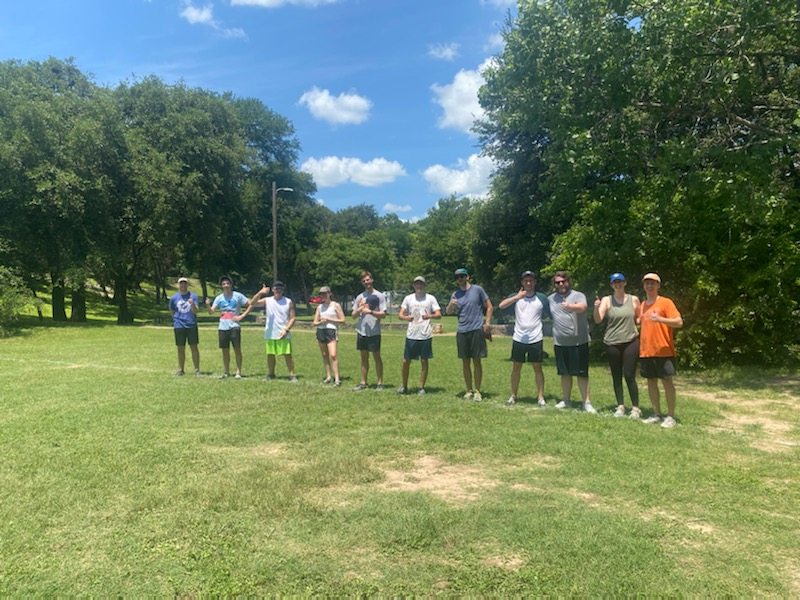
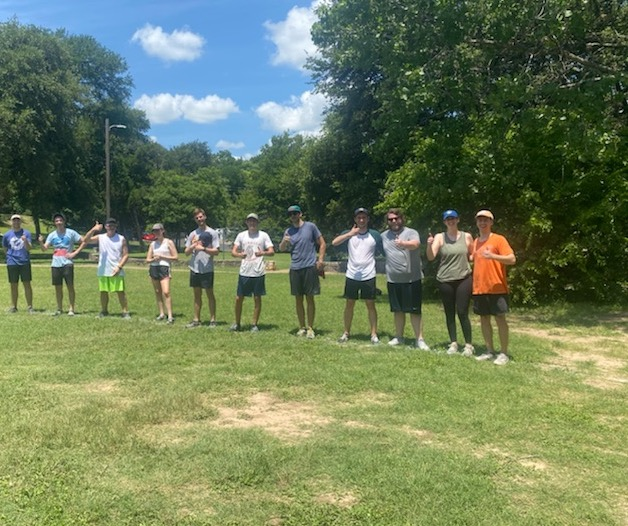
pictures added and sliders positioned

diff --git a/client/src/components/Home.tsx b/client/src/components/Home.tsx
@@ -3,7 +3,6 @@ import GlobalStyles from "./GlobalStyles";
 import Map from "./Map";
 import ImageSlider from "./ImageSlider";
 import { Link } from "react-router-dom";
-import ImageSwiper from "./ImageSwiper";
 import useMediaQuery from "./UseMediaQuery";
 
 const Home: React.FC = () => {
@@ -13,13 +12,13 @@ const Home: React.FC = () => {
     <>
       <Container style={GlobalStyles.card} maxWidth="md">
         <Box>
-          <Typography align="center" variant="h3">
+          <Typography align="center" variant="h4">
             Travis Heights Wiffle Ball League
           </Typography>
           <Typography align="center" variant="h5">
             Free to play and open to all!
           </Typography>
-          <Box m={2}>
+          <Box m={1}>
             <Typography align="center" variant="h4">
               Join for free!
             </Typography>
@@ -40,9 +39,9 @@ const Home: React.FC = () => {
             </Button>
           </Box>
         </Box>
-        {/* <Box style={GlobalStyles.div}>
-          <ImageSwiper mobileViewPort={mobileViewPort} />
-        </Box> */}
+        <Box style={GlobalStyles.div}>
+          <ImageSlider mobileViewPort={mobileViewPort} />
+        </Box>
         <Box style={GlobalStyles.div}>
           <Typography align="center" variant="h5">
             We play at Little Stacy Park in Travis Heights
@@ -52,9 +51,9 @@ const Home: React.FC = () => {
           </Box>
         </Box>
       </Container>
-      <Box maxWidth="md">
+      {/* <Box maxWidth="md">
         <ImageSwiper mobileViewPort={mobileViewPort} />
-      </Box>
+      </Box> */}
     </>
   );
 };

diff --git a/client/src/components/GameInfo.tsx b/client/src/components/GameInfo.tsx
@@ -6,8 +6,11 @@ import FormControlLabel from "@material-ui/core/FormControlLabel";
 import FormControl from "@material-ui/core/FormControl";
 import GlobalStyles from "./GlobalStyles";
 import ImageSlider from "./ImageSlider";
+import useMediaQuery from "./UseMediaQuery";
 
-export default function RadioButtonsGroup() {
+const GameInfo: React.FC = () => {
+  const mobileViewPort: boolean = useMediaQuery("(max-width: 500px)");
+
   const [rsvp, setRsvp] = useState<string>(`true`);
   const [userEmail, setUserEmail] = useState<string>("");
 
@@ -53,12 +56,10 @@ export default function RadioButtonsGroup() {
   return (
     <Box style={GlobalStyles.card}>
       <Box>
-        <Typography align="center" variant="h3">
+        <Typography align="center" variant="h5">
           Next Game is Sun 7/11 at 6pm
         </Typography>
-        <Typography align="center" variant="h5">
-          RSVP
-        </Typography>
+        <Typography align="center">RSVP</Typography>
       </Box>
       <form onSubmit={handleSubmit}>
         <Box textAlign="center">
@@ -104,10 +105,12 @@ export default function RadioButtonsGroup() {
             </Button>
           </Box>
         </Box>
-        {/* <Box style={GlobalStyles.div}>
-          <ImageSlider />
-        </Box> */}
+        <Box style={GlobalStyles.div}>
+          <ImageSlider mobileViewPort={mobileViewPort} />
+        </Box>
       </form>
     </Box>
   );
-}
+};
+
+export default GameInfo;

diff --git a/client/src/components/ImageSlider.tsx b/client/src/components/ImageSlider.tsx
@@ -1,30 +1,29 @@
 import SimpleImageSlider from "react-simple-image-slider";
-import wifflepic from "../Assets/wifflepic.jpeg";
 import swing from "../Assets/swing.jpeg";
-import field from "../Assets/field.jpeg";
 import fielders from "../Assets/fielders.jpeg";
-import outfield from "../Assets/outfield.jpeg";
-import scoreboard from "../Assets/scoreboard.jpeg";
-import scoreboard2 from "../Assets/scoreboard2.jpeg";
 import thumbsup from "../Assets/thumbsup.jpeg";
+import actionshot from "../Assets/actionshot.jpeg";
+import emptyfield from "../Assets/emptyfield.jpeg";
 
 const images = [
   { url: `${swing}` },
-  { url: `${wifflepic}` },
-  { url: `${field}` },
+  { url: `${emptyfield}` },
+  { url: `${actionshot}` },
   { url: `${fielders}` },
-  { url: `${outfield}` },
-  { url: `${scoreboard}` },
-  { url: `${scoreboard2}` },
   { url: `${thumbsup}` },
 ];
 
+interface onMobile {
+  mobileViewPort: boolean;
+}
+
 // need media queieres for height on wider screens
-const ImageSlider = () => {
+const ImageSlider: React.FC<onMobile> = ({ mobileViewPort }) => {
   return (
     <div>
       <SimpleImageSlider
-        height={"45vh"}
+        height={mobileViewPort ? "50vh" : "90vh"}
+        alt="wiffleball pics"
         width={"90vw"}
         images={images}
         slideDuration={0.5}

diff --git a/client/src/components/GlobalStyles.tsx b/client/src/components/GlobalStyles.tsx
@@ -24,13 +24,8 @@ const GlobalStyles = {
     width: "100%",
     padding: "0px",
   },
-  swiper: {
-    border: "4px solid red",
-    // padding: "5%",
-  },
-  swiperImg: {
-    minWidth: "400px",
-    objectFit: "cover",
+  pic: {
+    maxHeight: "50vh",
   },
 };
 
